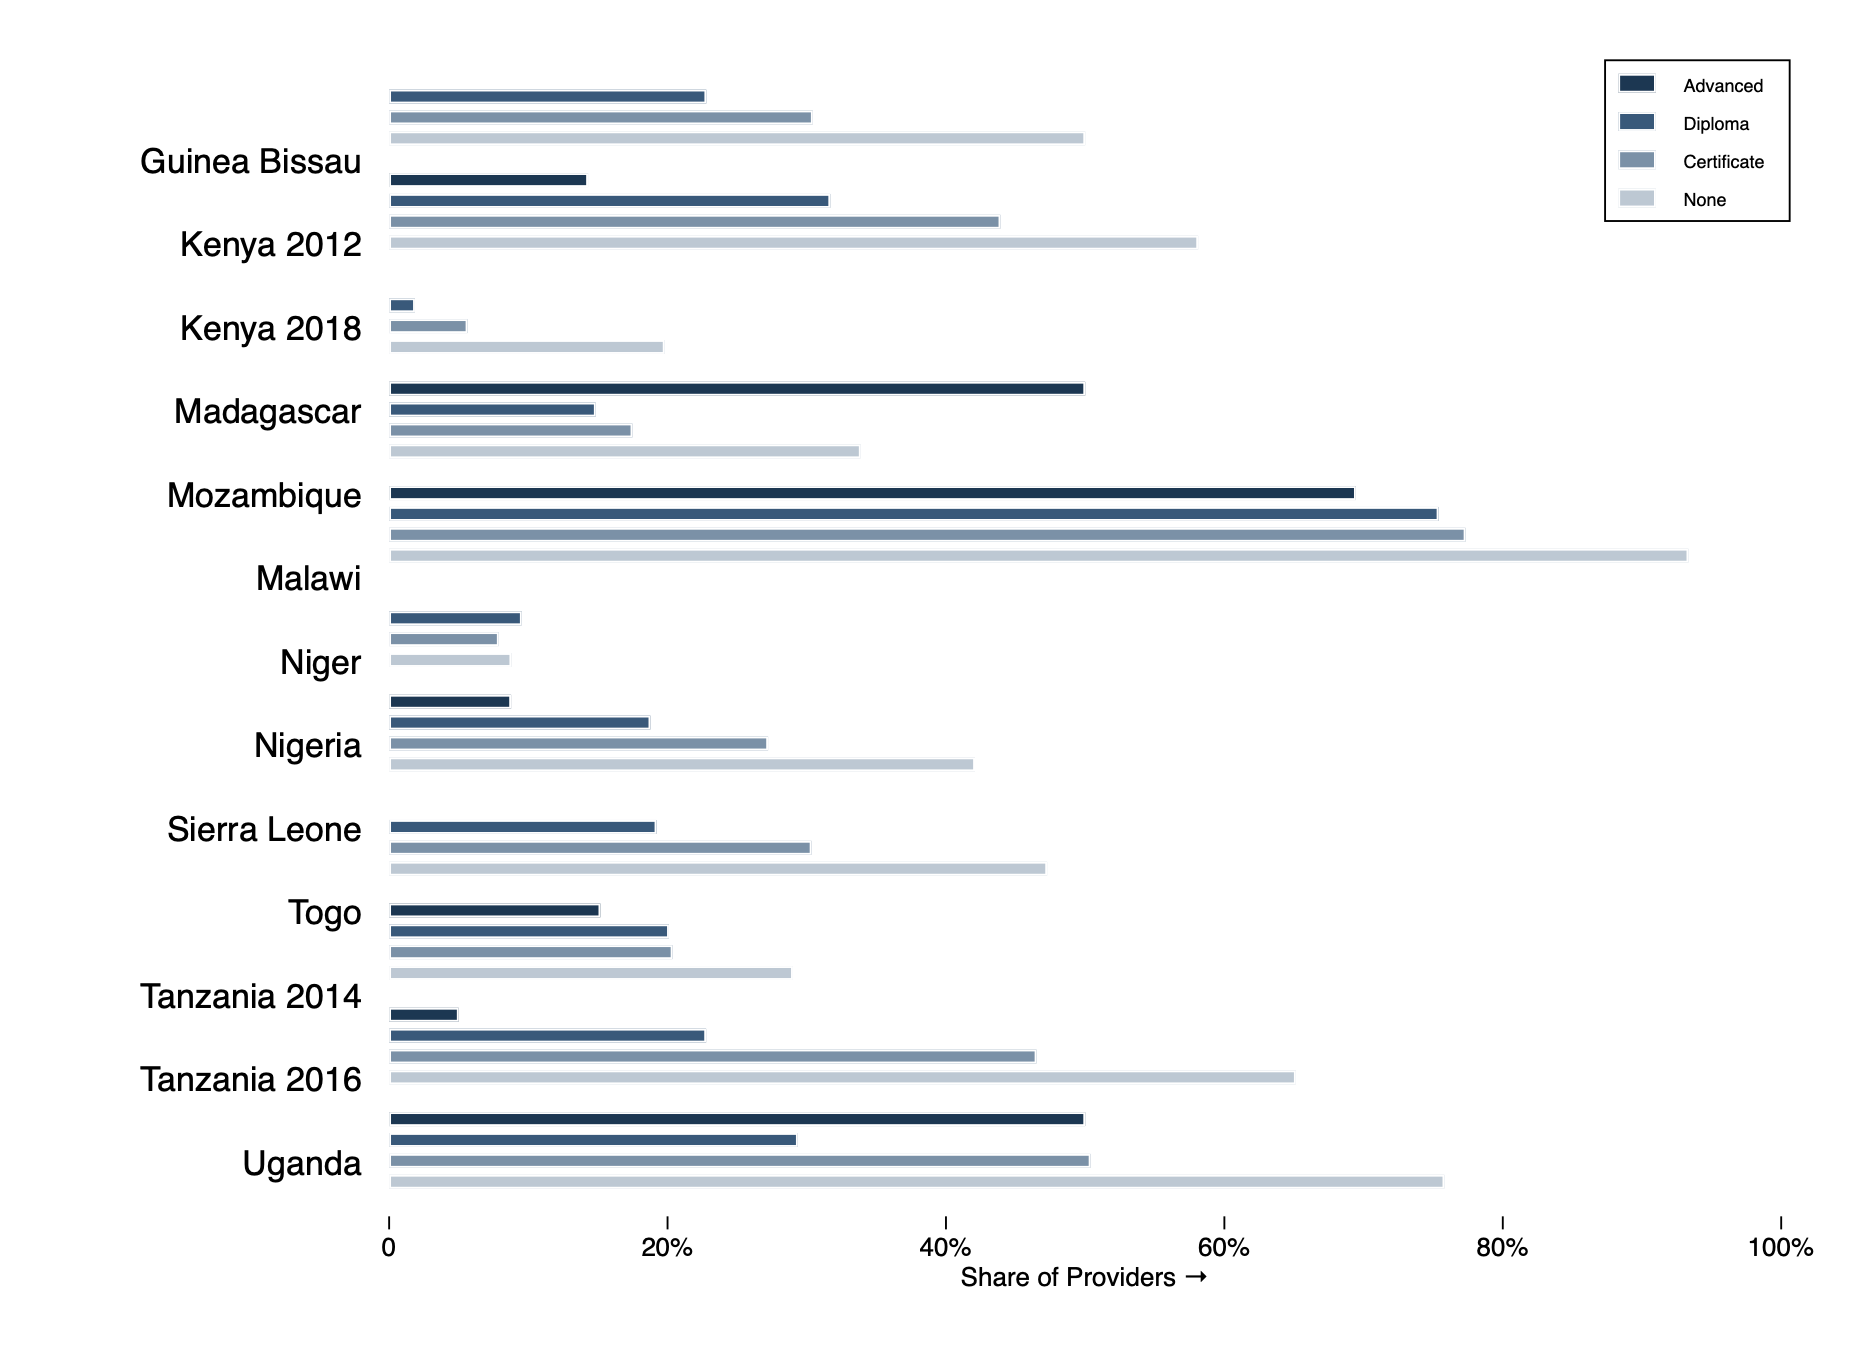
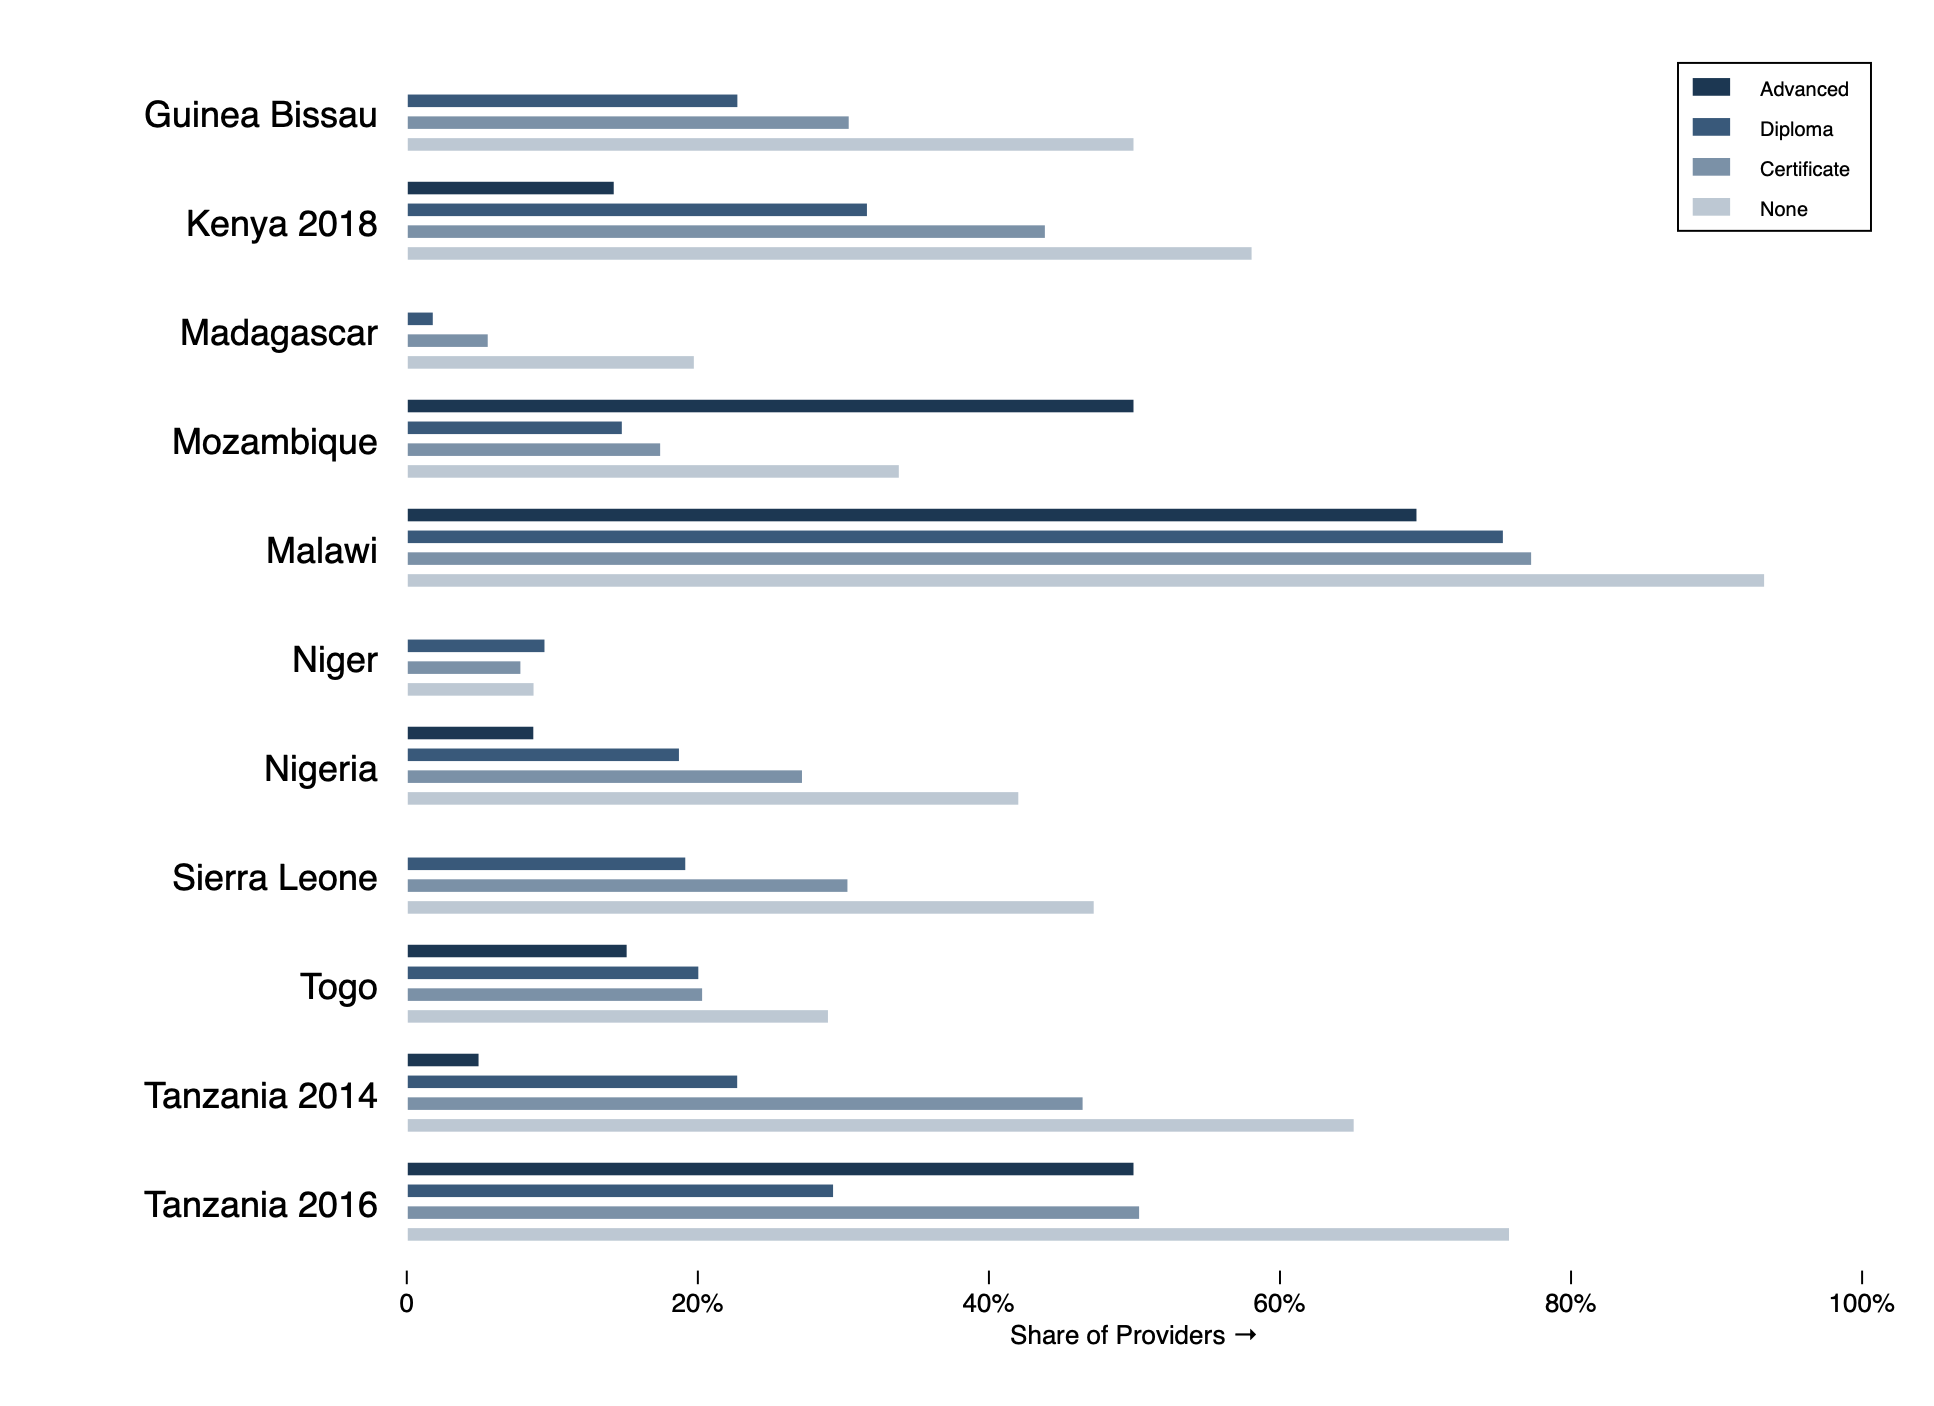
Revised figures and tables
Revised the tables and figures based on Ben's comments

diff --git a/outputs/tables/Regression_Results.tex b/outputs/tables/Regression_Results.tex
@@ -5,24 +5,30 @@
                 &Knowledge Score         &                  &                  &Treats Condition Correctly         &                  &                  &Diagnose Condition Correctly         &                  &                  \\
                 &\multicolumn{1}{c}{(1)}         &\multicolumn{1}{c}{(2)}         &\multicolumn{1}{c}{(3)}         &\multicolumn{1}{c}{(4)}         &\multicolumn{1}{c}{(5)}         &\multicolumn{1}{c}{(6)}         &\multicolumn{1}{c}{(7)}         &\multicolumn{1}{c}{(8)}         &\multicolumn{1}{c}{(9)}         \\
 \hline
-Doctor          &    0.974\sym{***}&    0.795\sym{***}&    0.654\sym{***}&    0.221\sym{***}&    0.192\sym{***}&    0.124\sym{***}&    0.319\sym{***}&    0.283\sym{***}&    0.192\sym{***}\\
-                &  (0.021)         &  (0.024)         &  (0.029)         &  (0.004)         &  (0.005)         &  (0.005)         &  (0.005)         &  (0.005)         &  (0.006)         \\
-Nurse           &    0.470\sym{***}&    0.397\sym{***}&    0.291\sym{***}&    0.147\sym{***}&    0.128\sym{***}&   0.0637\sym{***}&    0.220\sym{***}&    0.198\sym{***}&    0.121\sym{***}\\
-                &  (0.021)         &  (0.022)         &  (0.025)         &  (0.004)         &  (0.004)         &  (0.004)         &  (0.005)         &  (0.005)         &  (0.006)         \\
-Provider age    & -0.00882\sym{***}& -0.00893\sym{***}& -0.00616\sym{***}& -0.00166\sym{***}& -0.00151\sym{***}&-0.000737\sym{***}& -0.00172\sym{***}& -0.00164\sym{***}&-0.000497\sym{***}\\
+Doctor          &    0.782\sym{***}&    0.647\sym{***}&    0.384\sym{***}&    0.190\sym{***}&    0.162\sym{***}&   0.0764\sym{***}&    0.249\sym{***}&    0.216\sym{***}&    0.100\sym{***}\\
+                &  (0.030)         &  (0.032)         &  (0.035)         &  (0.006)         &  (0.006)         &  (0.007)         &  (0.007)         &  (0.007)         &  (0.008)         \\
+Nurse           &    0.302\sym{***}&    0.264\sym{***}&   0.0912\sym{***}&    0.126\sym{***}&    0.109\sym{***}&   0.0341\sym{***}&    0.161\sym{***}&    0.142\sym{***}&   0.0543\sym{***}\\
+                &  (0.027)         &  (0.028)         &  (0.030)         &  (0.005)         &  (0.005)         &  (0.005)         &  (0.006)         &  (0.006)         &  (0.007)         \\
+Provider age    & -0.00740\sym{***}& -0.00762\sym{***}& -0.00564\sym{***}& -0.00128\sym{***}& -0.00127\sym{***}&-0.000523\sym{***}&-0.000971\sym{***}&-0.000995\sym{***}&-0.000200         \\
                 &  (0.001)         &  (0.001)         &  (0.001)         &  (0.000)         &  (0.000)         &  (0.000)         &  (0.000)         &  (0.000)         &  (0.000)         \\
-Hospital        &                  &    0.391\sym{***}&    0.309\sym{***}&                  &   0.0288\sym{***}&   0.0604\sym{***}&                  &   0.0376\sym{***}&   0.0804\sym{***}\\
-                &                  &  (0.026)         &  (0.025)         &                  &  (0.005)         &  (0.005)         &                  &  (0.006)         &  (0.005)         \\
-Health Center   &                  &    0.162\sym{***}&   0.0755\sym{***}&                  & -0.00494         &   0.0221\sym{***}&                  &  -0.0134\sym{***}&   0.0296\sym{***}\\
-                &                  &  (0.018)         &  (0.020)         &                  &  (0.004)         &  (0.004)         &                  &  (0.004)         &  (0.004)         \\
-Urban           &                  &   -0.156\sym{***}&  -0.0468\sym{**} &                  &  -0.0231\sym{***}&  -0.0147\sym{***}&                  &  -0.0220\sym{***}& -0.00422         \\
-                &                  &  (0.021)         &  (0.020)         &                  &  (0.004)         &  (0.003)         &                  &  (0.005)         &  (0.004)         \\
-Private facility&                  &    0.265\sym{***}&  -0.0107         &                  &   0.0371\sym{***}&  -0.0276\sym{***}&                  &   0.0378\sym{***}&  -0.0233\sym{***}\\
-                &                  &  (0.021)         &  (0.019)         &                  &  (0.004)         &  (0.004)         &                  &  (0.005)         &  (0.004)         \\
+Advanced        &    0.500\sym{***}&    0.412\sym{***}&    0.958\sym{***}&   0.0667\sym{***}&   0.0876\sym{***}&    0.155\sym{***}&    0.193\sym{***}&    0.208\sym{***}&    0.277\sym{***}\\
+                &  (0.078)         &  (0.082)         &  (0.085)         &  (0.012)         &  (0.013)         &  (0.013)         &  (0.015)         &  (0.016)         &  (0.017)         \\
+Diploma         &    0.641\sym{***}&    0.650\sym{***}&    0.693\sym{***}&    0.161\sym{***}&    0.175\sym{***}&    0.131\sym{***}&    0.273\sym{***}&    0.286\sym{***}&    0.211\sym{***}\\
+                &  (0.076)         &  (0.080)         &  (0.083)         &  (0.012)         &  (0.012)         &  (0.012)         &  (0.015)         &  (0.016)         &  (0.017)         \\
+Certificate     &    0.420\sym{***}&    0.484\sym{***}&    0.544\sym{***}&    0.103\sym{***}&    0.128\sym{***}&   0.0933\sym{***}&    0.181\sym{***}&    0.209\sym{***}&    0.150\sym{***}\\
+                &  (0.075)         &  (0.078)         &  (0.083)         &  (0.011)         &  (0.012)         &  (0.012)         &  (0.014)         &  (0.015)         &  (0.016)         \\
+Hospital        &                  &    0.416\sym{***}&    0.258\sym{***}&                  &   0.0319\sym{***}&   0.0471\sym{***}&                  &   0.0367\sym{***}&   0.0629\sym{***}\\
+                &                  &  (0.029)         &  (0.027)         &                  &  (0.006)         &  (0.005)         &                  &  (0.006)         &  (0.006)         \\
+Health Center   &                  &    0.160\sym{***}&   0.0368\sym{*}  &                  & -0.00612         &   0.0109\sym{***}&                  &  -0.0235\sym{***}&   0.0146\sym{***}\\
+                &                  &  (0.021)         &  (0.022)         &                  &  (0.004)         &  (0.004)         &                  &  (0.005)         &  (0.005)         \\
+Urban           &                  &   -0.162\sym{***}&  -0.0910\sym{***}&                  &  -0.0210\sym{***}&  -0.0209\sym{***}&                  &  -0.0197\sym{***}&  -0.0144\sym{***}\\
+                &                  &  (0.023)         &  (0.021)         &                  &  (0.004)         &  (0.004)         &                  &  (0.005)         &  (0.004)         \\
+Private facility&                  &    0.297\sym{***}&   0.0168         &                  &   0.0430\sym{***}&  -0.0259\sym{***}&                  &   0.0445\sym{***}&  -0.0188\sym{***}\\
+                &                  &  (0.022)         &  (0.020)         &                  &  (0.004)         &  (0.004)         &                  &  (0.005)         &  (0.004)         \\
 \hline
 Country fixed effects&       No         &       No         &      Yes         &       No         &       No         &      Yes         &       No         &       No         &      Yes         \\
-Observations    &    16613         &    15166         &    15166         &   101873         &    93277         &    93277         &   107938         &    98016         &    98016         \\
-R2              &    0.124         &    0.130         &    0.277         &    0.037         &    0.032         &    0.082         &    0.073         &    0.066         &    0.111         \\
+Observations    &    14932         &    13585         &    13585         &    91922         &    83903         &    83903         &    96475         &    87228         &    87228         \\
+R2              &    0.123         &    0.134         &    0.284         &    0.043         &    0.038         &    0.085         &    0.077         &    0.071         &    0.117         \\
 \hline\hline
 \end{tabular}
 }

diff --git a/outputs/tables/prov_summ_1.tex b/outputs/tables/prov_summ_1.tex
@@ -17,7 +17,7 @@ Nurse&                                         {0.73}&        {0.55}&  {0.59}&  
 Other profession&                      {0.12}&        {0.03}&  {0.02}&  {0.02}&    {0.18}&        {0.46}\\
 &   {}\\
 Advanced med.&                         {0.02}&        {}&  {0.08}&  {0.58}&    {0.08}&        {0.02}\\
-diploma&                                       {0.22}&        {}&  {0.77}&  {0.39}&    {0.87}&        {0.52}\\
+Diploma&                                       {0.22}&        {}&  {0.77}&  {0.39}&    {0.87}&        {0.52}\\
 Certificate&                           {0.76}&        {}&  {0.14}&  {0.03}&    {0.04}&        {0.46}\\
 \hline
 \end{tabular}
